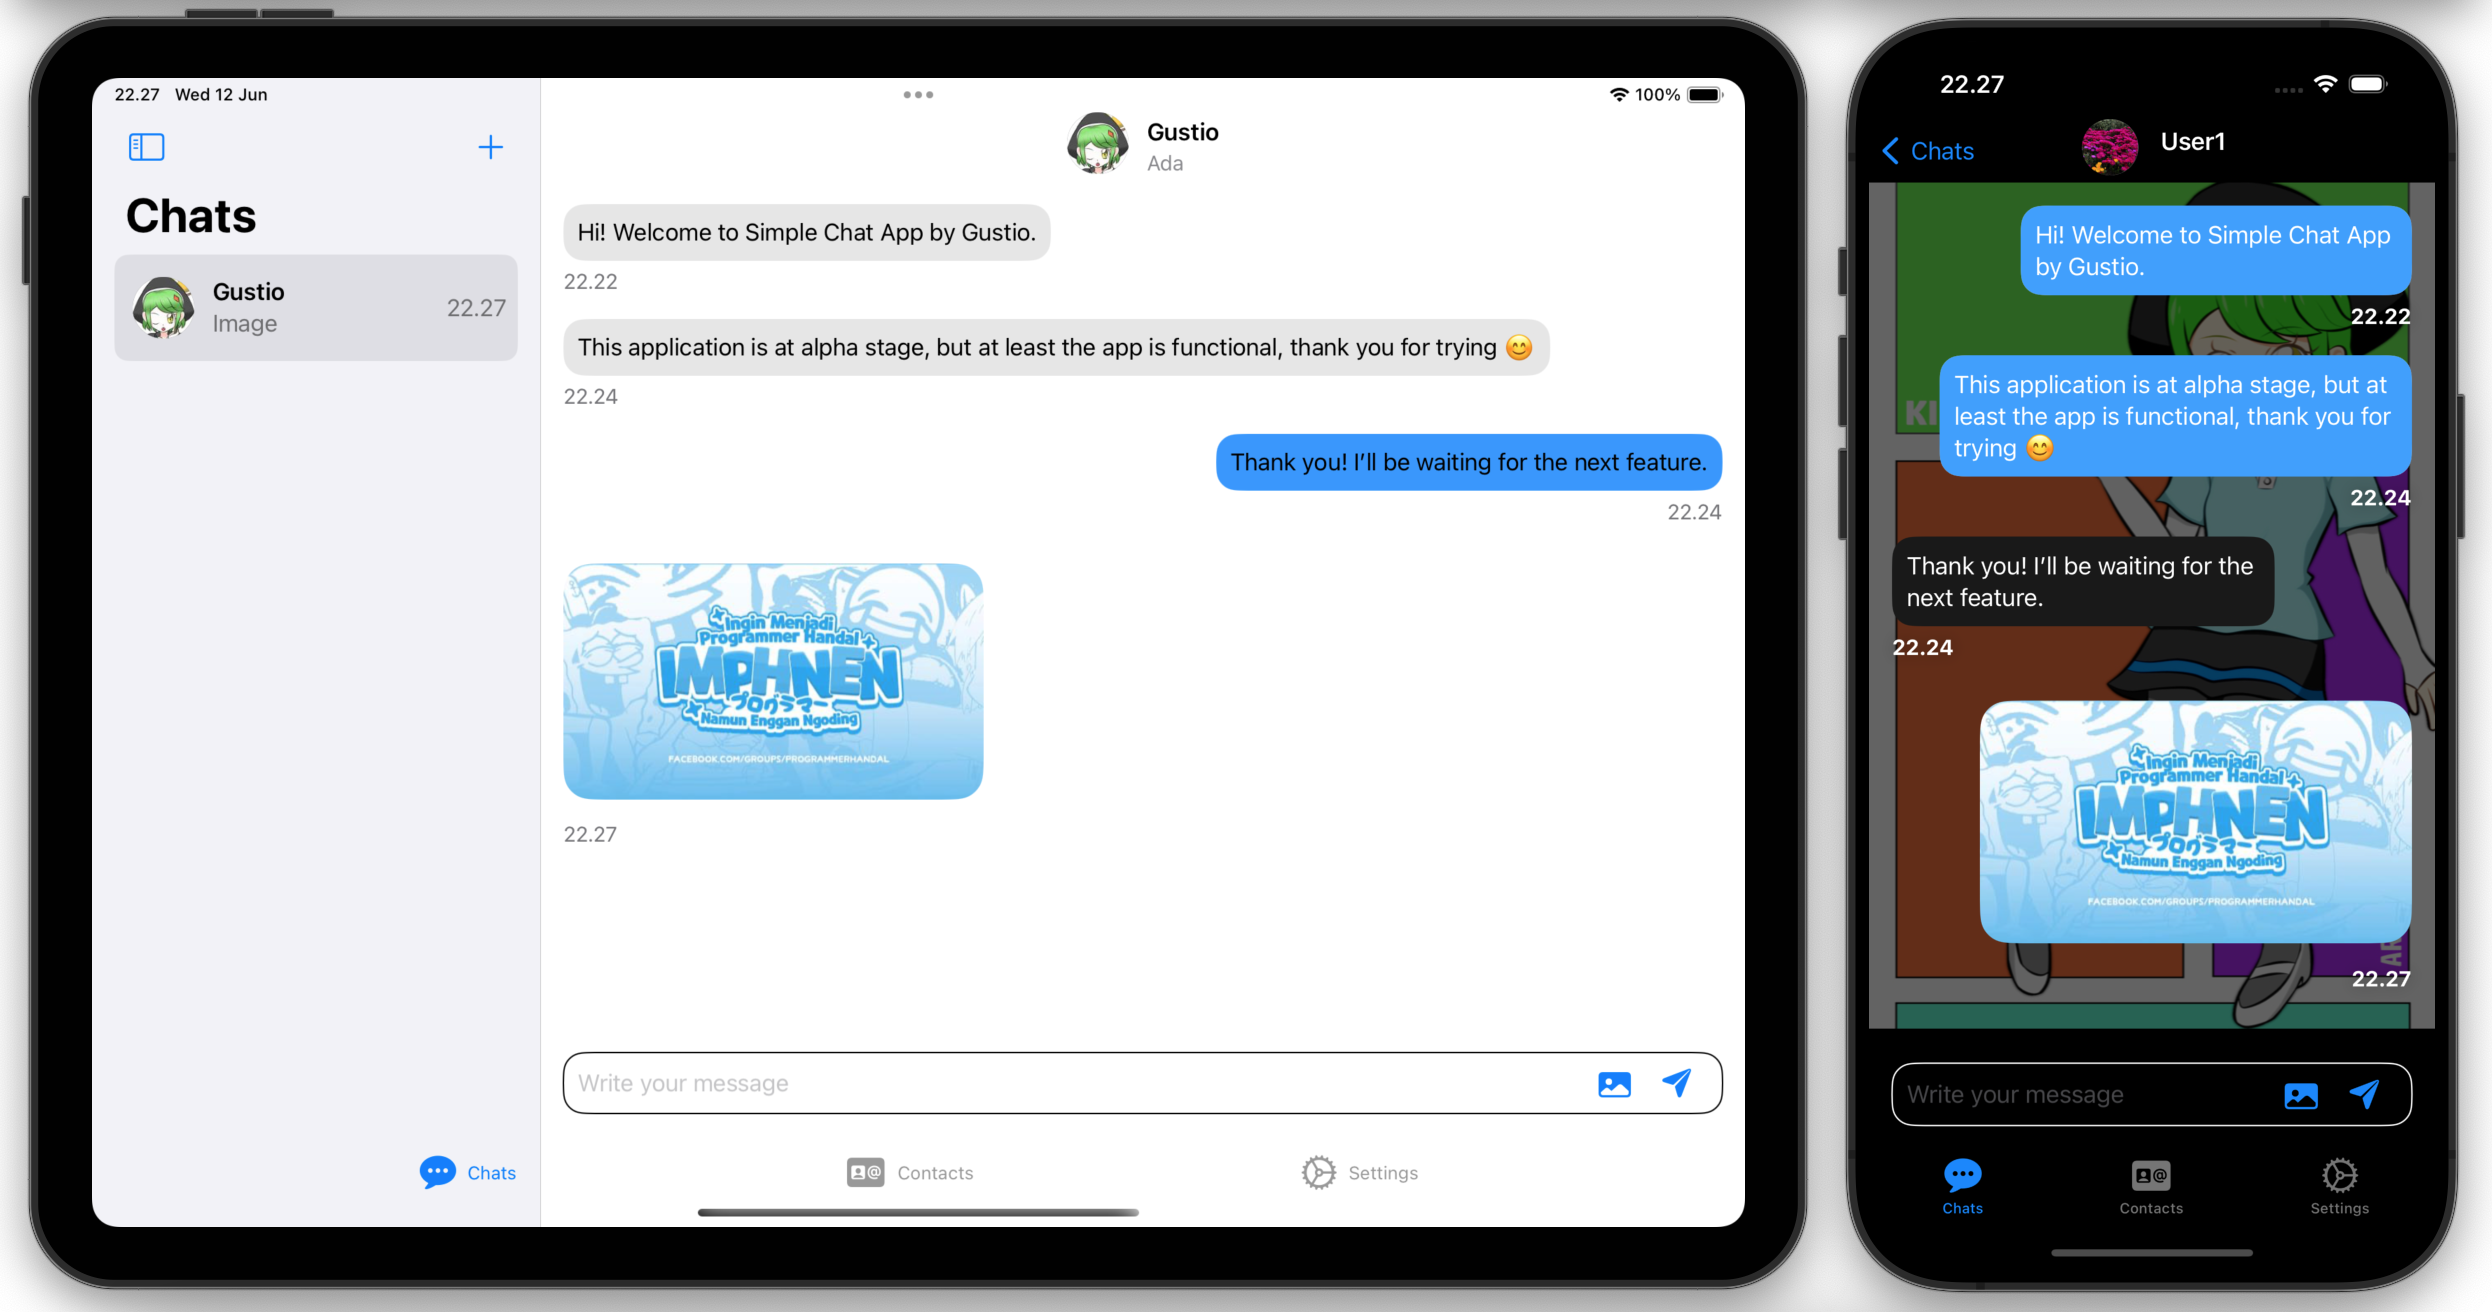
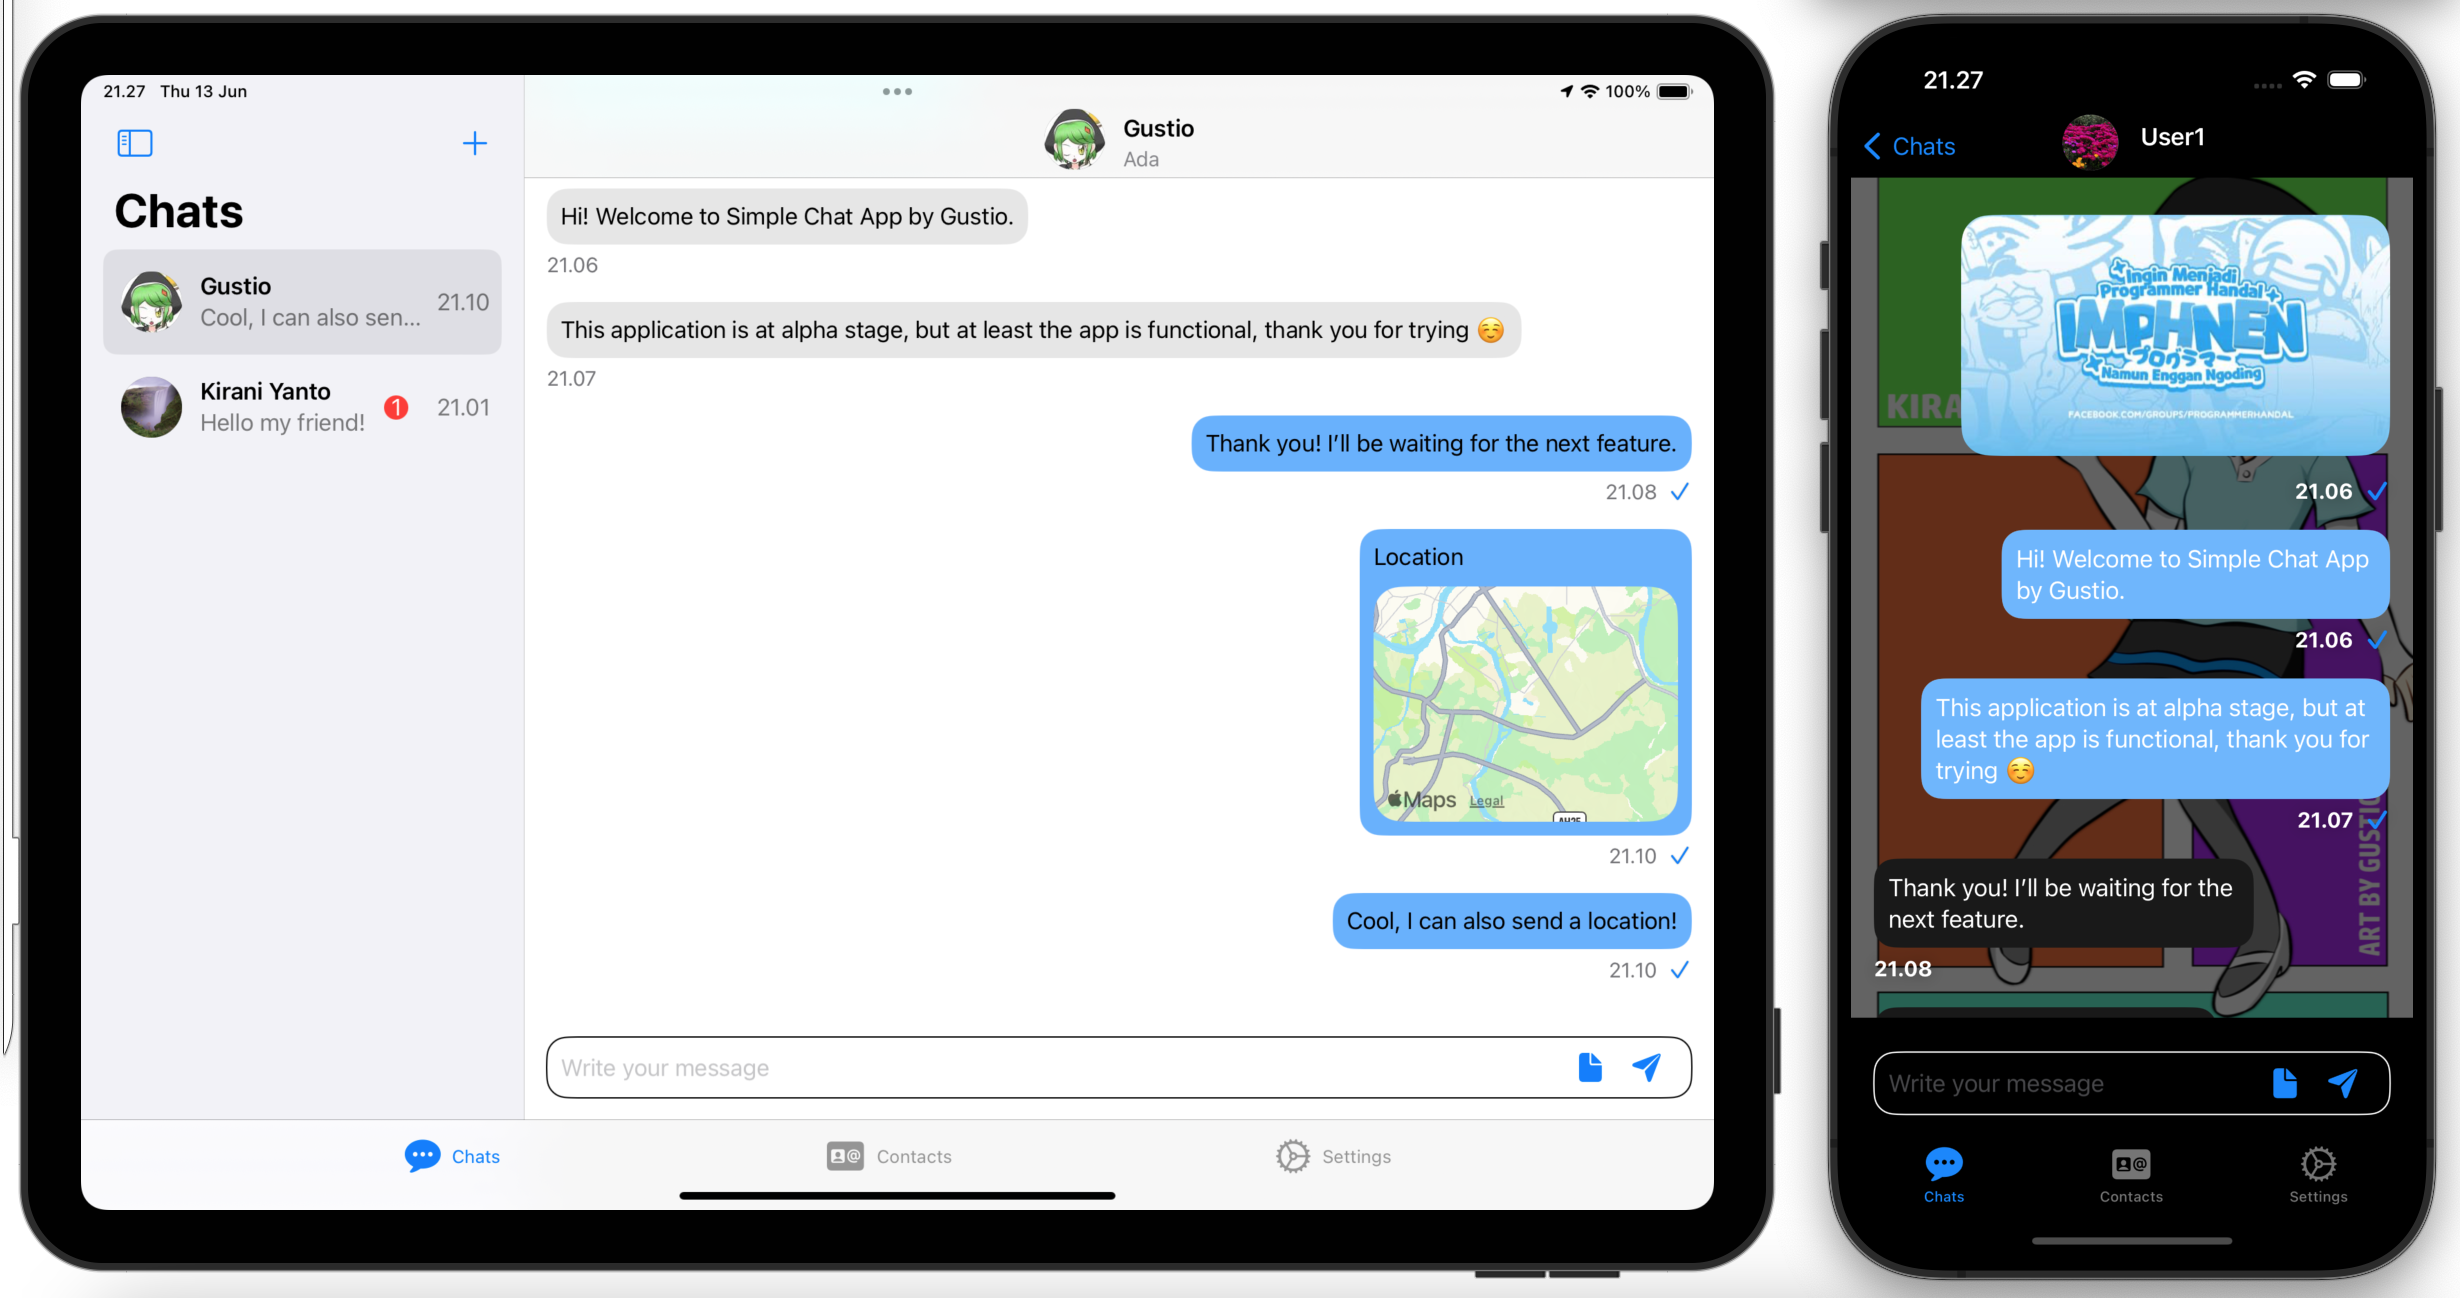
Implemented read and unread messages.

diff --git a/controllers/MessageController.js b/controllers/MessageController.js
@@ -18,6 +18,7 @@ const fetchMessage = async (req, res) => {
                 userRelated: true,
                 text: true,
                 image: true,
+                read: true,
                 date: true,
             },
         });
@@ -70,4 +71,37 @@ const sendMessage = async (req, res) => {
     }
 };
 
-module.exports = { fetchMessage, sendMessage };
+//function update message
+const updateMessage = async (req, res) => {
+
+    //get ID from params
+    const { id } = req.params;
+
+    try {
+
+        //update message
+        const readValue = await prisma.message.update({
+            where: {
+                id: Number(id),
+            },
+            data: {
+                read: req.body.read,
+            },
+        });
+
+        //send response
+        res.status(200).send({
+            success: true,
+            message: 'Message updated successfully',
+            data: readValue,
+        });
+
+    } catch (error) {
+        res.status(500).send({
+            success: false,
+            message: "Internal server error",
+        });
+    }
+};
+
+module.exports = { fetchMessage, sendMessage, updateMessage };

diff --git a/routes/index.js b/routes/index.js
@@ -18,6 +18,7 @@ router.get('/users/:userName', verifyToken, userController.findUserByUsername);
 router.put('/users/:userName', verifyToken, userController.updateUser);
 router.get('/message/:sender&:receiver', verifyToken, messageController.fetchMessage);
 router.post('/message/:sender&:receiver', verifyToken, messageController.sendMessage);
+router.put('/message/:id', verifyToken, messageController.updateMessage);
 
 //export router
 module.exports = router
